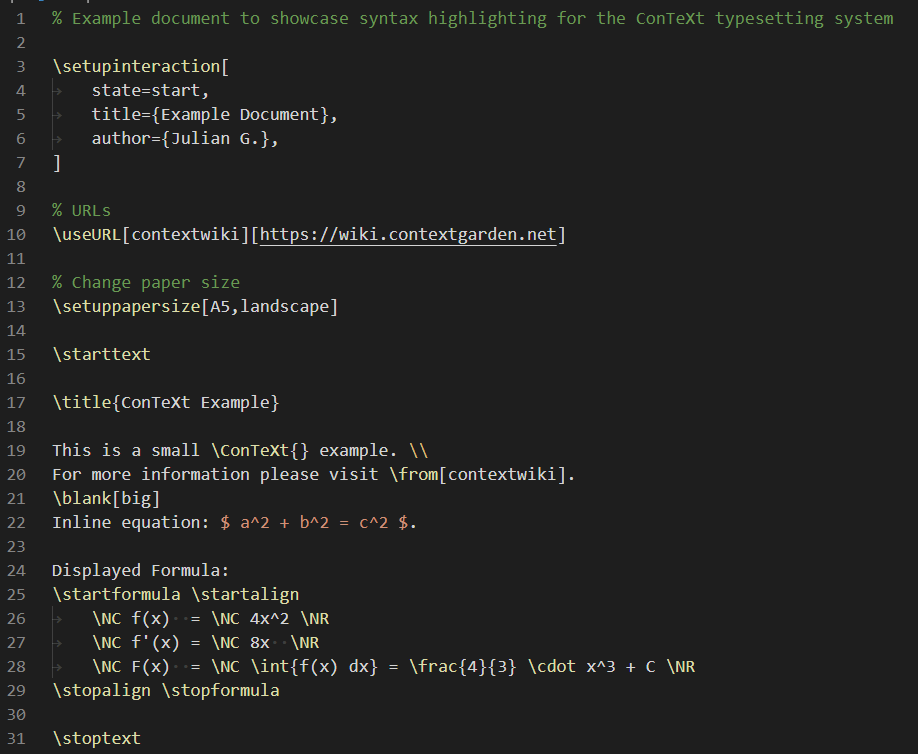
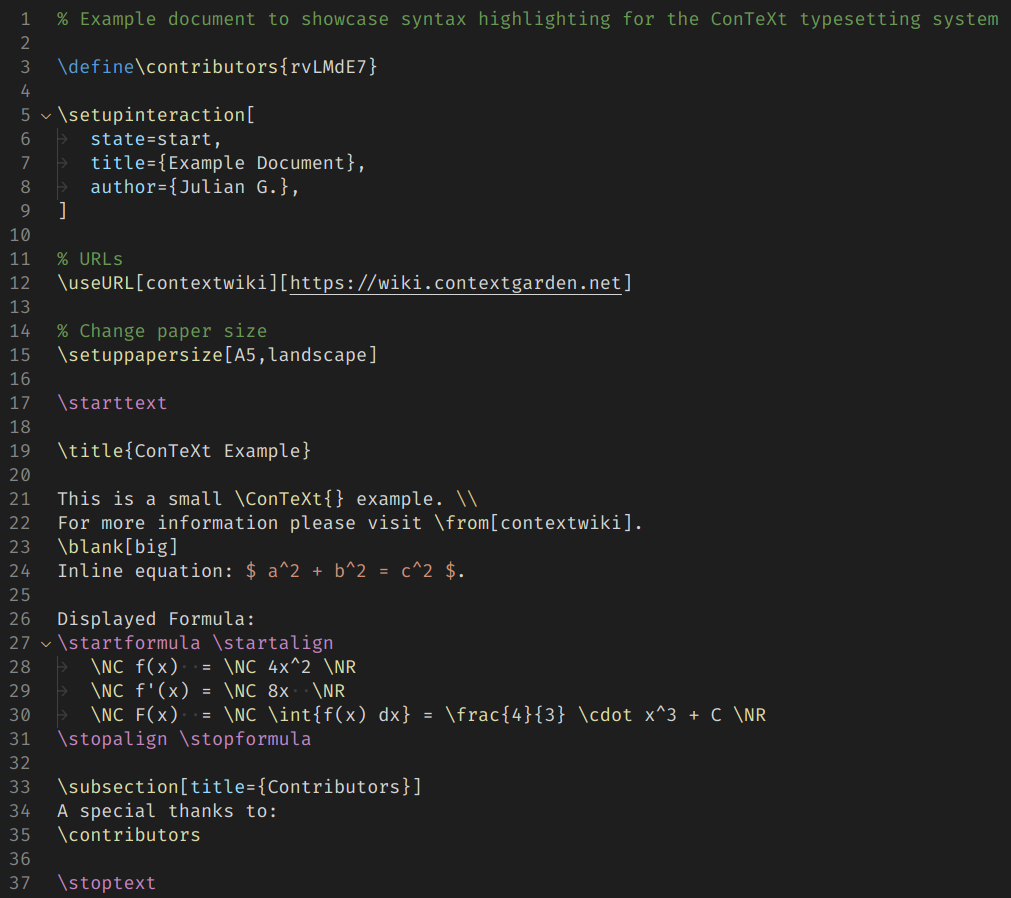
1.1.0 release

diff --git a/example/example.tex b/example/example.tex
@@ -1,5 +1,7 @@
 % Example document to showcase syntax highlighting for the ConTeXt typesetting system
 
+\define\contributors{rvLMdE7}
+
 \setupinteraction[
 	state=start,
 	title={Example Document},
@@ -27,6 +29,10 @@ Displayed Formula:
 	\NC f'(x) = \NC 8x  \NR
 	\NC F(x)  = \NC \int{f(x) dx} = \frac{4}{3} \cdot x^3 + C \NR
 \stopalign \stopformula
+
+\subsection[title={Contributors}]
+A special thanks to:
+\contributors
 
 \stoptext
 

diff --git a/CHANGELOG.md b/CHANGELOG.md
@@ -1,5 +1,9 @@
 # Change Log
 
+## [1.1.0] - 2021-11-24
+
+- Enhance the syntax by highlighting `key=value`, `\define`, `\start` and `\stop` statements
+
 ## [1.0.0] - 2019-08-21
 
 - Initial Release
